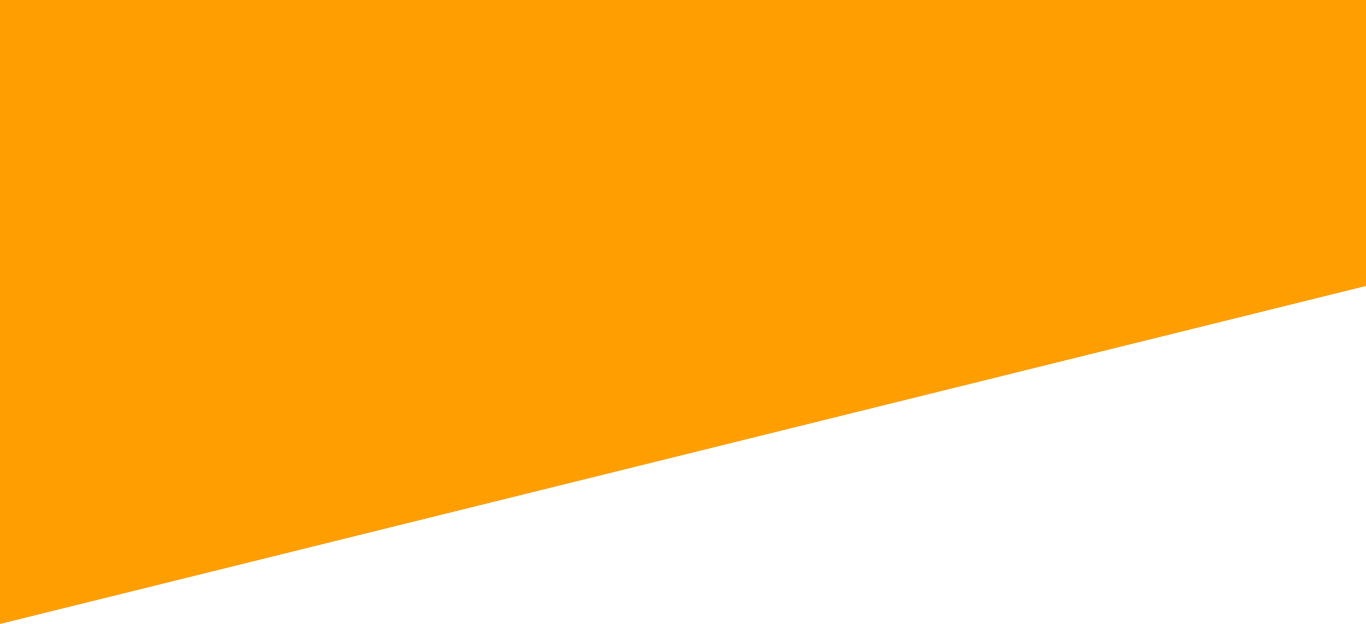
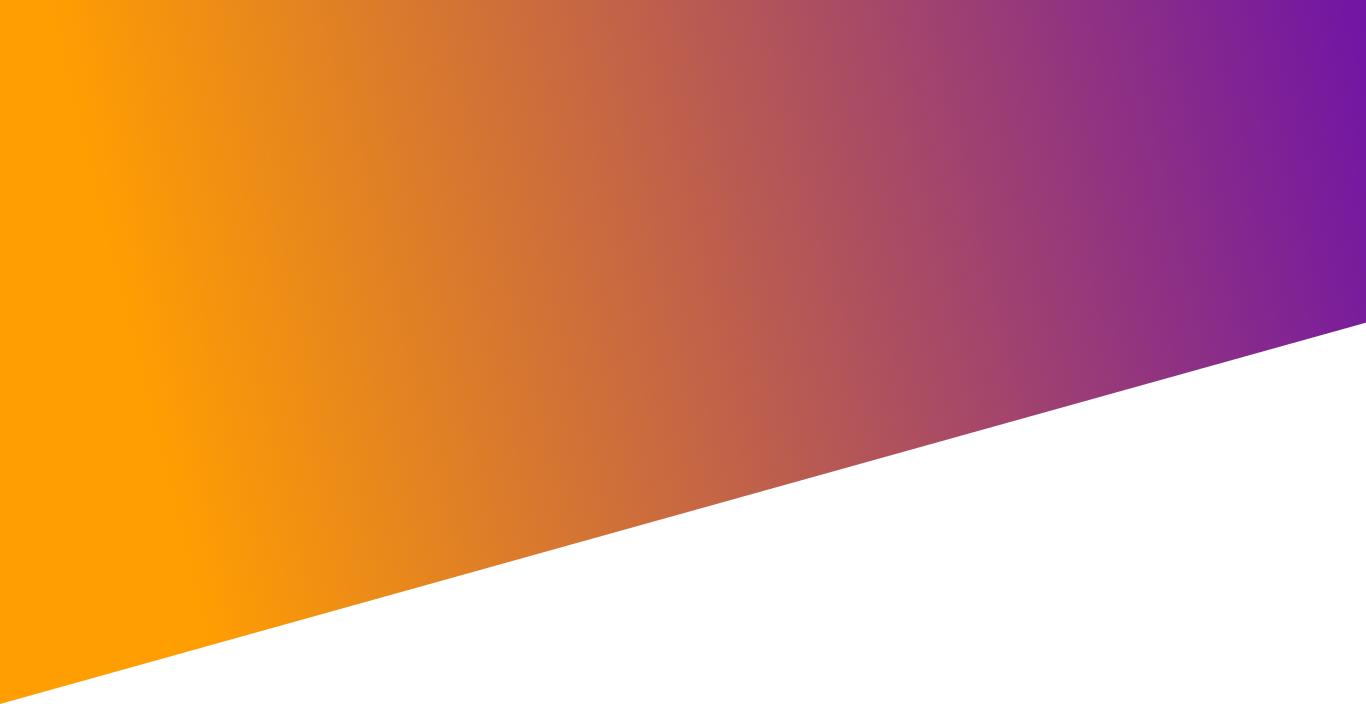
refazendo parte da home

diff --git a/src/app/home/home.page.html b/src/app/home/home.page.html
@@ -1,77 +1,75 @@
-<ion-header class="ion-no-border" [translucent]="true">
-    <ion-toolbar style="--background: #FF9E01; height: 80px;">
+<!-- <ion-header class="ion-no-border" [translucent]="true" style="position: absolute">
+    
+</ion-header>
+ -->
+<ion-content [fullscreen]="true" style="--background: #F7F7F7;">
+    <ion-toolbar style="--background: transparent; height: 80px; position: absolute;">
         <img src="../../assets/logo.png" class="logo">
-        <ul style="float: right; margin-right: 6%;">
+        <ul style="float: right;">
             <li><a href="#">Sobre a Cordel</a></li>
             <li><a href="#">Produtos</a></li>
             <li><a href="#">Blog</a></li>
             <li><a href="#">Fale conosco</a></li>
+            <li><div style="width: 1px; height: 40px; background-color: #FFFFFF; margin: 0 1.5vw;"></div></li>
             <li><a href="auth" class="roundedLink" style="margin-left: 16px;">Área do aluno</a></li>
         </ul>
     </ion-toolbar>
-</ion-header>
-
-<ion-content [fullscreen]="true" style="--background: white;">
     <div class="firstCont">
-        <p style="font-size: calc(13px + 1vw); padding-left: 7%; padding-top: 13.5%; display: inline-block; color: white;">
-            Que tal utilizar jogos e experiências<br>gamificadas para expandir o processo<br>de ensino-aprendizagem em um<br>modelo educacional mais colaborativo?
+        <p style="font-size: clam(20px, 2.5vw, 24px); padding-top: 11.7vw; display: inline-block; color: white;">
+            Que tal utilizar jogos e experiências<br>gamificadas para expandir o processo<br>de ensino-aprendizagem em um modelo<br>educacional mais colaborativo?
         </p>
-        <img src="../../assets/caraEstudando.png" style="position: absolute; left: 52%; top: 45px; width: 40%">
+        <img src="../../assets/caraEstudando.png" style="position: absolute; right: 14.5vw; top: 140px; width: 35%">
     </div>
     <div class="secondCont">
         <div class="titulo">
-            <p>
-                <Strong>Sobre a Cordel</Strong>
-            </p>
+            <p><Strong>Sobre a Cordel</Strong></p>
             <div></div>
         </div>
-        <ul style="margin-top: 40px; display: flex; justify-content: center;">
+        <ul style="margin-top: 40px; display: flex; justify-content: center; min-height: 304px;">
             <li>
-                <div class="bloco">
-                    <img src="../../assets/icon/AtuacaoIcon.png" style="margin: auto; width: 28%">
-                    <p style="margin: 7px 0; font-weight: 700;">Atuação</p>
-                    <p style="font-size: 13px;">Trabalhamos com práticas e ferramentas (digitais ou analógicas) baseadas em jogos e gamificação; Além de workshops e cursos para a capacitação de educadores.</p>
+                <div class="bloco" style="background-image: url('../../assets/Panels/Atuacao.png');">
+                    <p style="margin: 0 0 15px 0; font-weight: 700;">Atuação</p>
+                    <p style="font-size: 12px;">Trabalhamos com práticas e ferramentas - digitais ou analógicas - baseadas em jogos e gamificação; 
+                        Além de workshops e cursos para a capacitação de educadores.</p>
                 </div>
             </li>
             <li>
-                <div class="bloco">
-                    <img src="../../assets/icon/OrigemIcon.png" style="margin: auto; width: 27%">
-                    <p style="margin: 7px 0; font-weight: 700;">Origem</p>
-                    <p style="font-size: 13px;">Fundada em Novembro de 2019, por um grupo de alunos no ensino médio, motivados pelo desejo de melhorar a educação, unindo-a com a tecnologia e os jogos.</p>
+                <div class="bloco" style="background-image: url('../../assets/Panels/Origem.png');">
+                    <p style="margin: 0 0 15px 0; font-weight: 700;">Origem</p>
+                    <p style="font-size: 12px;">Fundada em Novembro de 2019, por um grupo de alunos no ensino médio, motivados pelo desejo de melhorar a educação, unindo-a com a tecnologia e os jogos.</p>
                 </div>
             </li>
             <li>
-                <div class="bloco" style="margin: 0">
-                    <img src="../../assets/icon/MissaoIcon.png" style="margin: auto; width: 28%">
-                    <p style="margin: 7px 0; font-weight: 700;">Missão</p>
-                    <p style="font-size: 13px;">Transformar os cenários de aprendizagem por meio da união da educação com a tecnologia.</p>
+                <div class="bloco" style="background-image: url('../../assets/Panels/Missao.png'); margin: 0;">
+                    <p style="margin: 0 0 15px 0; font-weight: 700;">Missão</p>
+                    <p style="font-size: 12px;"><br>Transformar os cenários de aprendizagem por meio da união da educação com a tecnologia.</p>
                 </div>
             </li>
         </ul>
-        <img src="../../assets/Subtract.png" style="position: absolute; width: 17%; top: 9vw">
-        <img src="../../assets/Vector.png" style="position: absolute; width: 29%; top: -6vw; right: 0px">
     </div>
     <div class="appearances">
         <div class="titulo">
-            <p>
-                <Strong>Aparições</Strong>
-            </p>
+            <p><Strong>Aparições</Strong></p>
             <div></div>
         </div>
-        <ion-slides style="height: 23vw" #slides pager="true" [options]="SliderOptions" (ionSlidesDidLoad)="slidesDidLoad(slides)">
+        <ion-slides style="height: 30vw; margin-top: 40px; width: 80%;" #slides pager="false" [options]="SliderOptions" (ionSlidesDidLoad)="slidesDidLoad(slides)">
             <ion-slide *ngFor="let n of appearences; let i = index" class="appearanceCard">
-                <img [src]="appearenceImg[i]" style="width: 32%; float: left;">
-                <div style="float: left; text-align: left; margin: 0 12.5vw 0 0;">
-                    <p style="font-size: 24px; margin-bottom: 13px; position: relative; width: 46vw;">
-                        <ion-text>{{appearences[i]}}</ion-text>
-                    </p>
-                    <p style="color: #878787">
-                        <ion-text>{{appearenceFrom[i]}}</ion-text>
-                    </p>
-                    <a href="#" class="roundedLink">Saiba mais</a>
-                </div>
+                <ion-card>
+                    <img [src]="appearenceImg[i]" style="float: left;">
+                    <ion-card-header>
+                        <ion-card-subtitle>{{appearenceFrom[i]}}</ion-card-subtitle>
+                    </ion-card-header>
+                    <ion-card-content>{{appearences[i]}}</ion-card-content>
+                </ion-card>
+                <button>Ler Matéria</button>
             </ion-slide>
         </ion-slides>
+    </div>
+    <div style="width: 100%; height: 296px; background: linear-gradient(69deg, rgba(255,158,1,1) 0%, rgba(101,9,179,1) 95%);">
+        <p style="font-size: 56px; font-weight: 700; line-height: 56px; color: #FFFFFF; padding: 64px 14.5%;">
+            Aprenda a planejar<br>
+            e criar aulas mais<br>
+            dinâmicas e engajadoras!</p>
     </div>
     <div class="banners" style="background-image: url('../../assets/Backgrounds/banner\ professor\ do\ futuro\ presente.png');">
         <div>

diff --git a/src/app/home/home.page.scss b/src/app/home/home.page.scss
@@ -2,25 +2,28 @@ li div.bloco {
     display: block;
     color: black;
     text-align: center;
-    min-width: 215px;
-    min-height: 176.76px;
-    width: 15.7vw;
-    height: 13vw;
+    min-width: 245px;
+    min-height: 245px;
+    width: 17vw;
+    height: 17vw;
     margin: 0 5vw 0 0;
+    background-repeat: no-repeat;
+    padding: 6vw 24px 0 24px;
 }
 
 .firstCont {
     background-image: url("../../assets/Backgrounds/firstBackground.png");
     background-repeat: no-repeat;
     background-size: 100vw;
-    height: 45.7vw;
+    height: 51.5vw;
     position: relative;
+    padding: 140px 14.5% 0 14.5%;
 }
 
 .secondCont {
-    height: 28.4vw;
+    min-height: 304px;
     position: relative;
-    box-shadow: 0px 4px 4px 0px rgba(0, 0, 0, 0.25);
+    // box-shadow: 0px 4px 4px 0px rgba(0, 0, 0, 0.25);
     width: 100vw;
 }
 
@@ -69,19 +72,56 @@ li div.bloco {
 }
 
 .appearances {
-    height: 29.3vw;
+    height: 40vw;
+    min-height: 450px;
     position: relative;
     width: 100vw;
+    ion-slides {
+        min-width: calc(900px + 8%);
+        min-height: 400;
+    }
 }
 
 .appearanceCard {
-    margin: 1.7% 0 0 0;
-    width: 85.6%;
-    height: 32%;
-    height: 15.5vw;
-    width: 85.65vw;
+    height: 30vw;
     align-items: flex-start;
-    margin-top: 40px;
+    flex-direction: column;
+    width: 22vw;
+    min-width: 300px;
+    button{
+        background-color: transparent;
+        border-radius: 40px;
+        border: 3px solid #6509B3;
+        color:#6509B3;
+        width: 45%;
+        height: 10%;
+        font-size: 16px;
+        font-weight: 700;
+        margin: auto;
+        margin-top: 10px;
+    }
+    ion-card {
+        width: 22vw;
+        min-height: 300px;
+        min-width: 300px;
+        background-color: #FFFFFF;
+        text-align: left;
+        ion-card-header {
+            clear: left;
+            display: block;
+            ion-card-subtitle {
+                font-size: 14px;
+                font-weight: 600;
+                color: #A8A8A8;
+            }
+        }
+        ion-card-content {
+            padding-right: 30px;
+            font-size: 16px;
+            font-weight: 700;
+            color: #333332;
+        }
+    }
 }
 
 .appearanceCard a {

diff --git a/src/app/home/home.page.ts b/src/app/home/home.page.ts
@@ -10,8 +10,9 @@ export class HomePage implements OnInit{
   constructor() {}
 
   SliderOptions = {
-    initialSlide: 0,
-    sliderPerView: 1,
+    initialSlide: 1,
+    slidesPerView: 3,
+    spaceBetween: '3%',
     speed: 800,
     loop: true,
     autoplay: {
@@ -25,10 +26,10 @@ export class HomePage implements OnInit{
                            "Play for the planet: The favela youth redesigning gaming from Brazil’s north-east",
                            "Primeira startup incubada no Porto Digital de Recife com alunos do Ensino Médio",
                            "Startup embarcada no Porto Digital ganha reconhecimento internacional"];
-  appearenceFrom: string[] = ["Em Bom Dia PE",
-                              "Em Pionners Post",
-                              "Em NE 10",
-                              "Em Folha PE"];
+  appearenceFrom: string[] = ["Bom Dia PE",
+                              "Pionners Post",
+                              "NE 10",
+                              "Folha PE"];
   appearenceImg: string[] = ["../../assets/Aparicoes/fotobomdiape.png",
                               "../../assets/Aparicoes/fotopionnerspost.jpg",
                               "../../assets/Aparicoes/fotone10.jpg",

diff --git a/src/global.scss b/src/global.scss
@@ -67,12 +67,14 @@ li a {
     display: block;
     color: white;
     text-align: center;
-    padding: 12px 16px 12px 16px;
+    padding: 12px 1.2vw;
     text-decoration: none;
 }
 
 .roundedLink {
-    background-color: #6509B3;
+    height: 40px;
+    padding: 12px 20px;
+    background-color: #FF9E01;
     border-radius: 50px;
     display: block;
     color: white;
@@ -90,7 +92,6 @@ p {
 .logo {
     height: 59px;
     margin-top: 10px;
-    margin-left: 7vw;
     float: left;
 }
 
@@ -125,7 +126,10 @@ p {
 .titulo {
     display: block;
     position: relative;
-    margin: 2.5% 0 0 7%;
+    //margin: 2.5% 0 0 7%;
+    text-align: center;
+    width: 20%;
+    margin: auto;
 }
 
 div.titulo p {
@@ -135,10 +139,9 @@ div.titulo p {
 }
 
 div.titulo div {
-    position: absolute;
-    bottom: 0px;
-    height: 5px;
+    height: 3px;
     width: 83px;
+    margin: auto;
     background-color: #FF9E01;
 }
 
@@ -152,4 +155,9 @@ div.titulo div {
 ion-slides {
     --bullet-background: #686868;
     --bullet-background-active: #572c41 !important;
+}
+
+ion-toolbar {
+    padding: 0 14.5%;
+    width: calc(100vw - 16px);
 }
